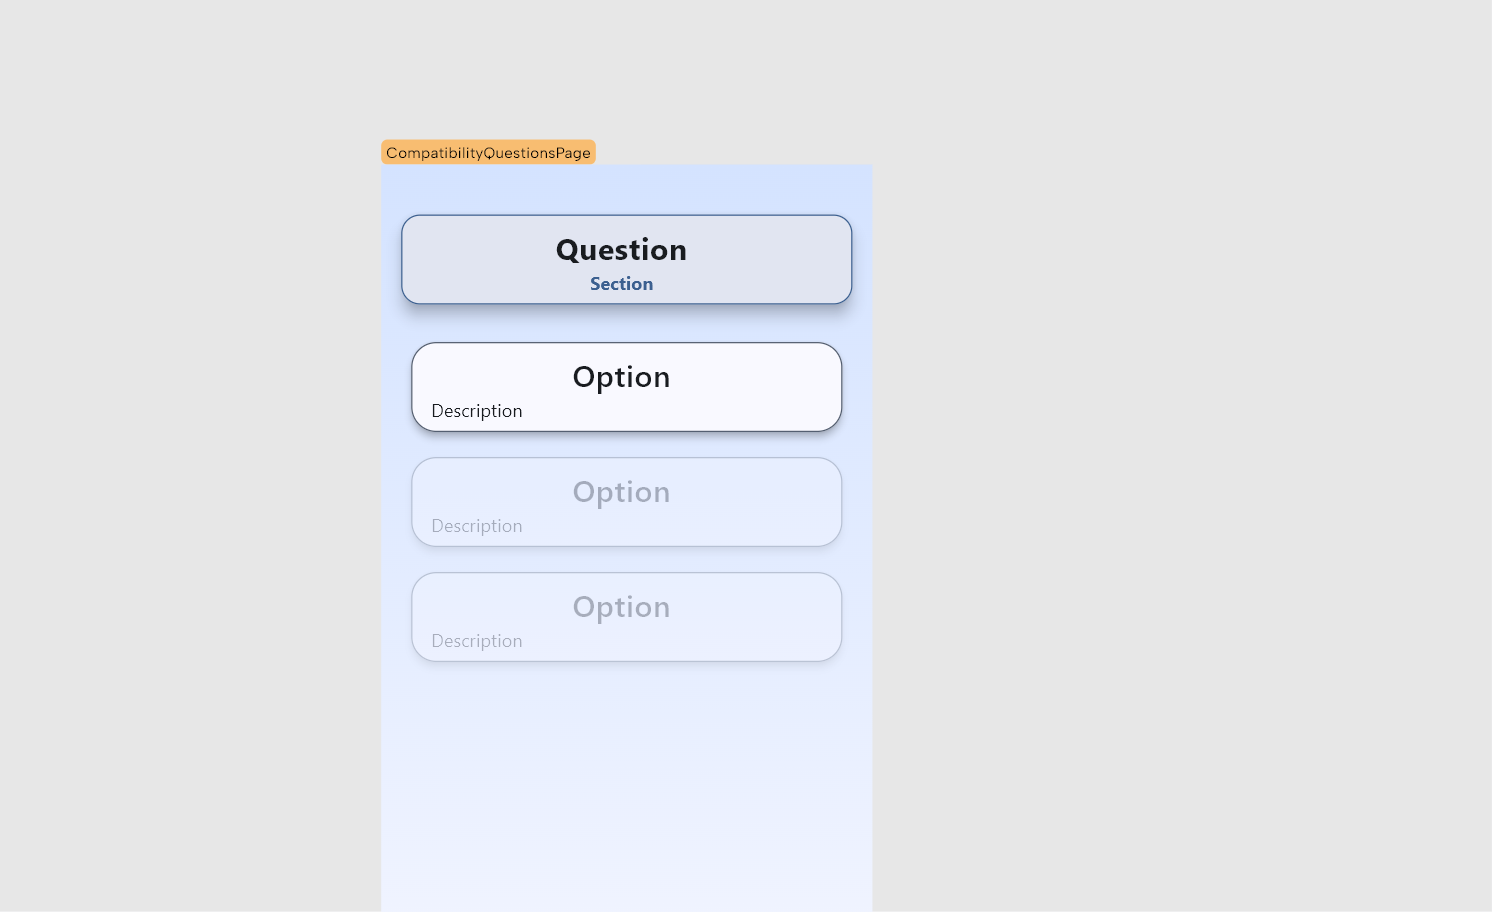
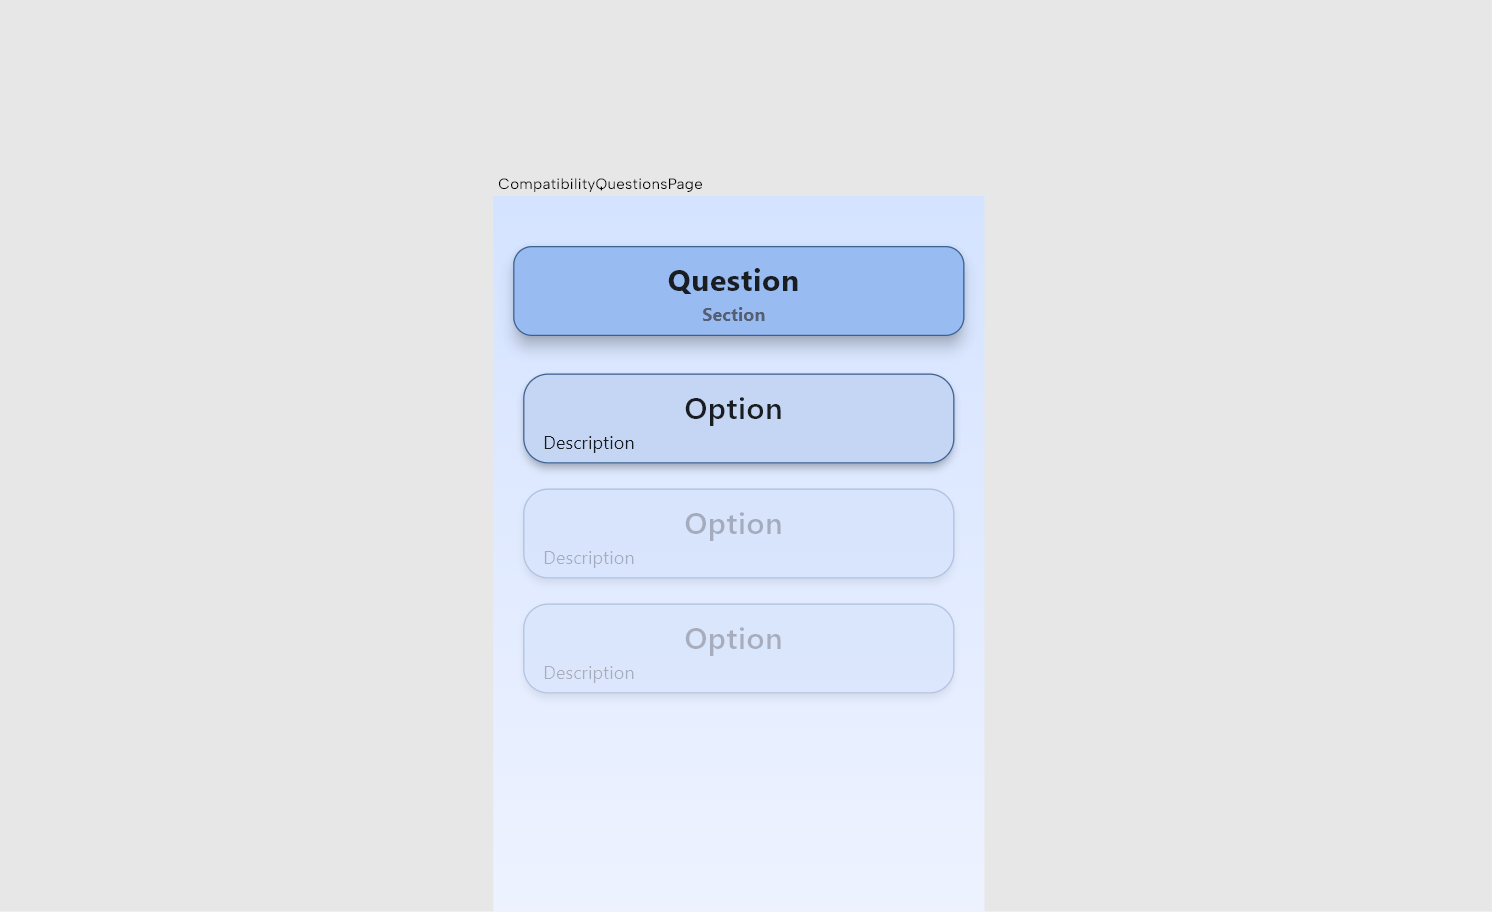
✨ Update QuestionsPage: enhance color scheme

diff --git a/lib/pages/compatibility_questions_page.dart b/lib/pages/compatibility_questions_page.dart
@@ -42,7 +42,6 @@ class CompatibilityQuestionsPage extends StatelessWidget {
                 width: double.infinity,
                 child: DataBuilder<CompatibilityQuestionsModel?>(
                   builder: (context, data) => Material(
-                    surfaceTintColor: Theme.of(context).colorScheme.primary,
                     elevation: 10.0,
                     shape: RoundedRectangleBorder(
                       side: BorderSide(
@@ -51,6 +50,8 @@ class CompatibilityQuestionsPage extends StatelessWidget {
                       ),
                       borderRadius: BorderRadius.circular(15.0),
                     ),
+                    color: Theme.of(context).colorScheme.inversePrimary,
+                    surfaceTintColor: Theme.of(context).colorScheme.surfaceTint,
                     child: ListTile(
                       title: Text(
                         data?.label['en'] ?? 'Question',
@@ -64,7 +65,7 @@ class CompatibilityQuestionsPage extends StatelessWidget {
                         data?.section_id?.label['en'] ?? 'Section',
                         textAlign: TextAlign.center,
                         style: TextStyle(
-                          color: Theme.of(context).colorScheme.primary,
+                          color: Theme.of(context).colorScheme.secondary,
                           fontWeight: FontWeight.w700,
                         ),
                       ),
@@ -96,14 +97,17 @@ class CompatibilityQuestionsPage extends StatelessWidget {
                       final CompatibilityOptionsModel element = data[index];
                       return Material(
                         elevation: 5.0,
-                        color: Theme.of(context).colorScheme.surfaceBright,
+                        color: Theme.of(context).colorScheme.primaryContainer,
                         shape: RoundedRectangleBorder(
                           side: BorderSide(
-                            color: Theme.of(context).colorScheme.secondary,
+                            color: Theme.of(context).colorScheme.primary,
                             width: 1.0,
                           ),
                           borderRadius: BorderRadius.circular(20.0),
                         ),
+                        surfaceTintColor: Theme.of(
+                          context,
+                        ).colorScheme.surfaceTint,
                         child: ListTile(
                           title: Text(
                             element.label['en'] ?? 'Option',
@@ -118,6 +122,16 @@ class CompatibilityQuestionsPage extends StatelessWidget {
                             style: Theme.of(context).textTheme.bodyMedium,
                             textAlign: TextAlign.justify,
                           ),
+                          onTap: () {
+                            Navigator.of(context).push(
+                              MaterialPageRoute(
+                                builder: (context) =>
+                                    CompatibilityQuestionsPage(
+                                      questionId: questionId! + 1,
+                                    ),
+                              ),
+                            );
+                          },
                         ),
                       );
                     },
@@ -148,58 +162,6 @@ class CompatibilityQuestionsPage extends StatelessWidget {
           ),
         ),
         backgroundColor: Colors.transparent,
-        bottomNavigationBar: Padding(
-          padding: const EdgeInsets.symmetric(vertical: 0.0, horizontal: 16.0),
-          child: Wrap(
-            direction: Axis.horizontal,
-            alignment: WrapAlignment.spaceBetween,
-            children: [
-              FlexSizedBox(
-                width: null,
-                height: null,
-                child: IconButton(
-                  onPressed: questionId! > 1
-                      ? () {
-                          Navigator.of(context).push(
-                            MaterialPageRoute(
-                              builder: (context) => CompatibilityQuestionsPage(
-                                questionId: questionId! - 1,
-                              ),
-                            ),
-                          );
-                        }
-                      : null,
-                  icon: Icon(
-                    Icons.keyboard_arrow_left_outlined,
-                    size: 50.0,
-                    color: Theme.of(context).colorScheme.primary,
-                  ),
-                  onLongPress: questionId!.isNegative ? () {} : null,
-                ),
-              ),
-              FlexSizedBox(
-                width: null,
-                height: null,
-                child: IconButton(
-                  onPressed: () {
-                    Navigator.of(context).push(
-                      MaterialPageRoute(
-                        builder: (context) => CompatibilityQuestionsPage(
-                          questionId: questionId! + 1,
-                        ),
-                      ),
-                    );
-                  },
-                  icon: Icon(
-                    Icons.keyboard_arrow_right,
-                    size: 50.0,
-                    color: Theme.of(context).colorScheme.primary,
-                  ),
-                ),
-              ),
-            ],
-          ),
-        ),
       ),
     );
   }
